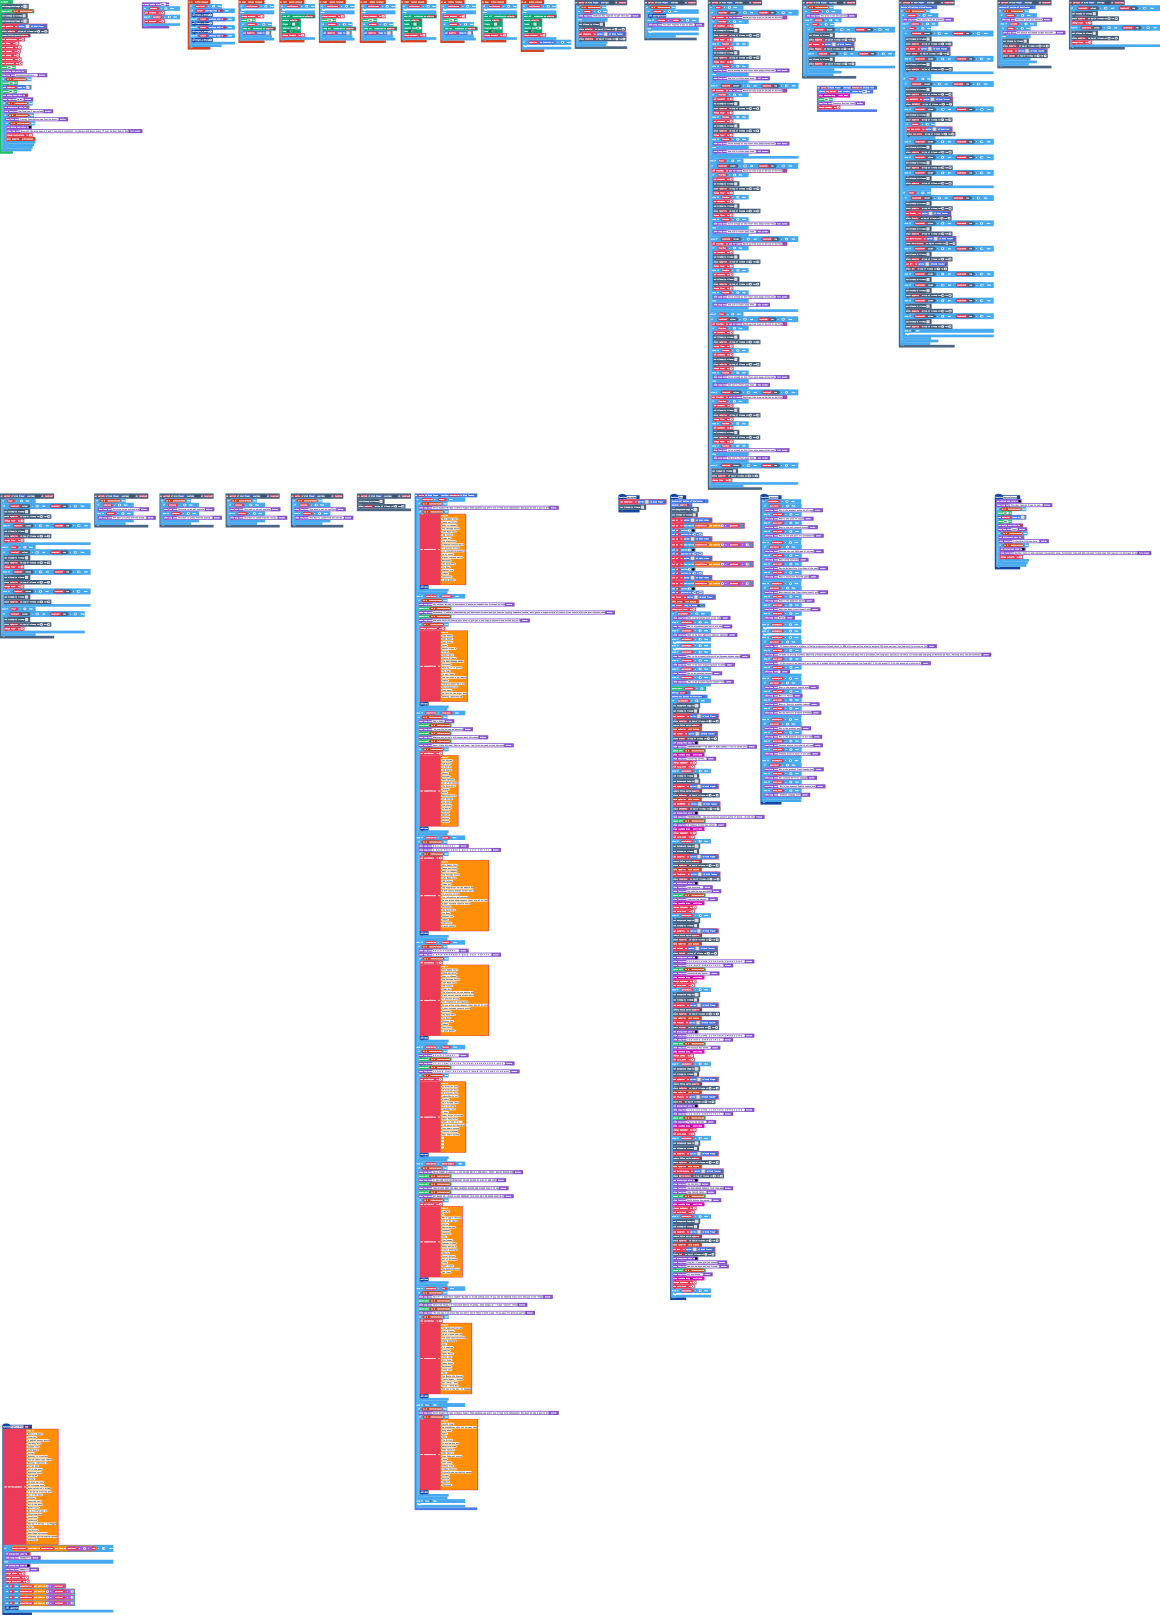
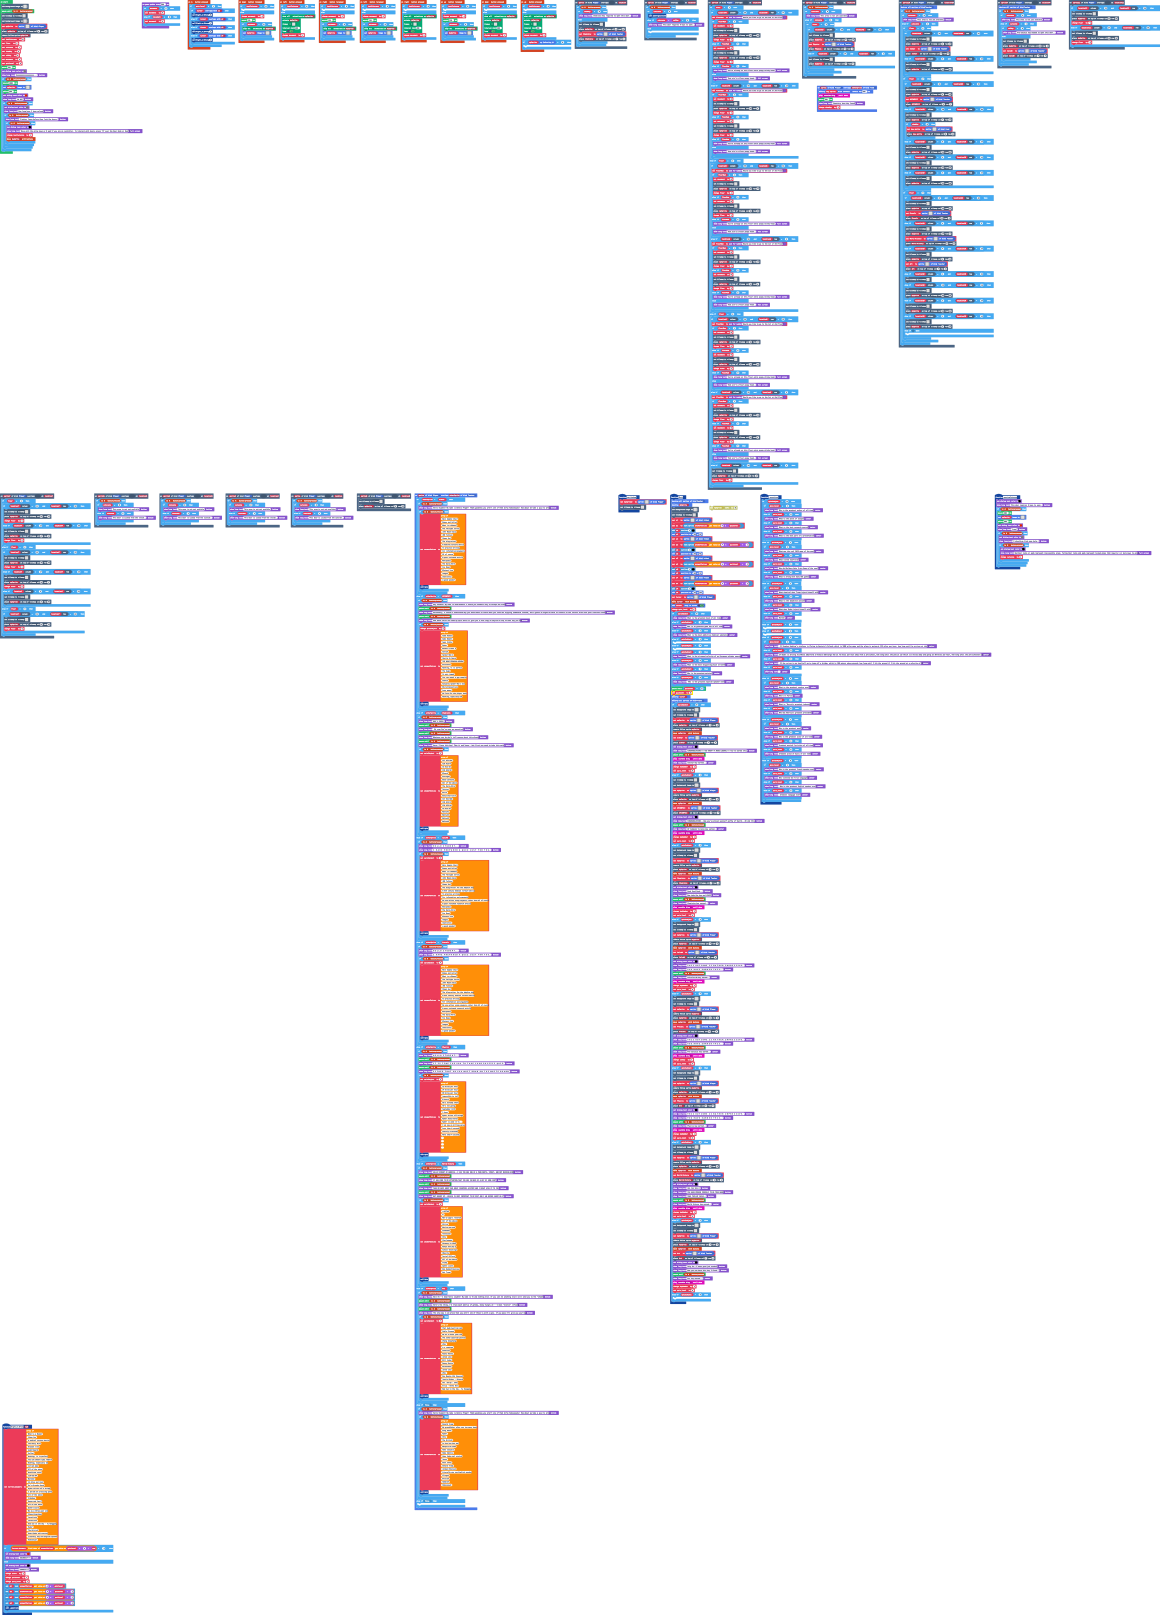
Update main.blocks, main.ts

Changed region(s): [[0.5586, 0.4334, 0.6517, 0.805]]

diff --git a/main.ts b/main.ts
@@ -875,6 +875,7 @@ function Quiz () {
         game.showLongText(" Who is the greatest Spanish speaker ever?", DialogLayout.Center)
     }
     pauseUntil(() => quizlevel == 5)
+    quizlevel = 0
     sprites.destroy(Cursor)
     sprites.destroyAllSpritesOfKind(SpriteKind.hitbot)
     if (quizSubject == 0) {
